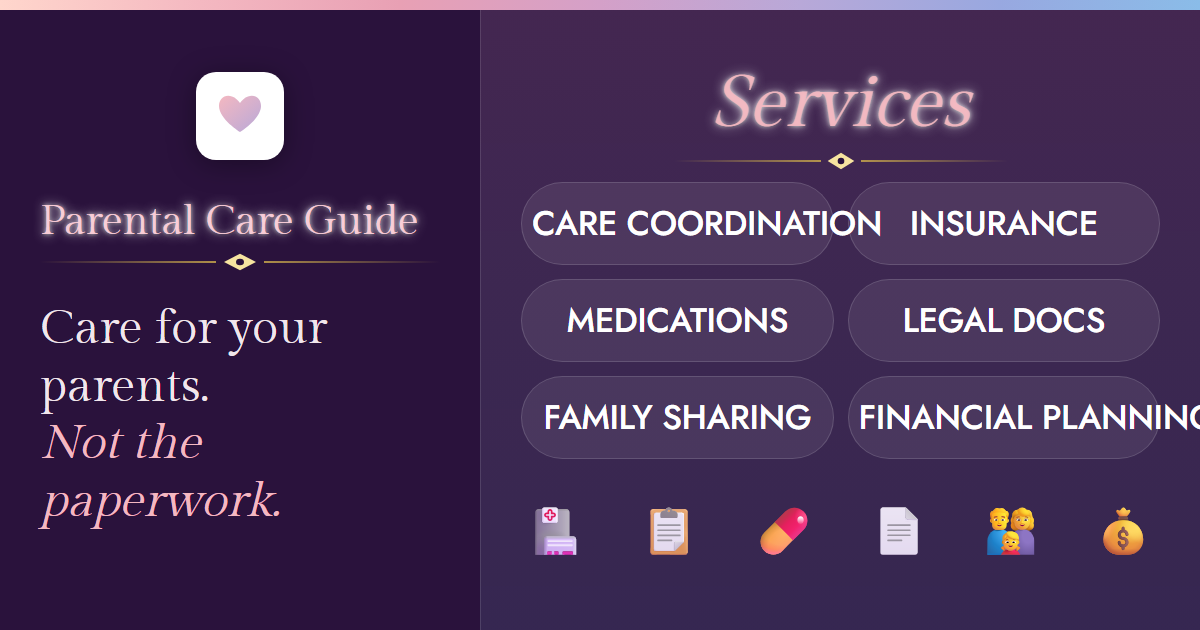
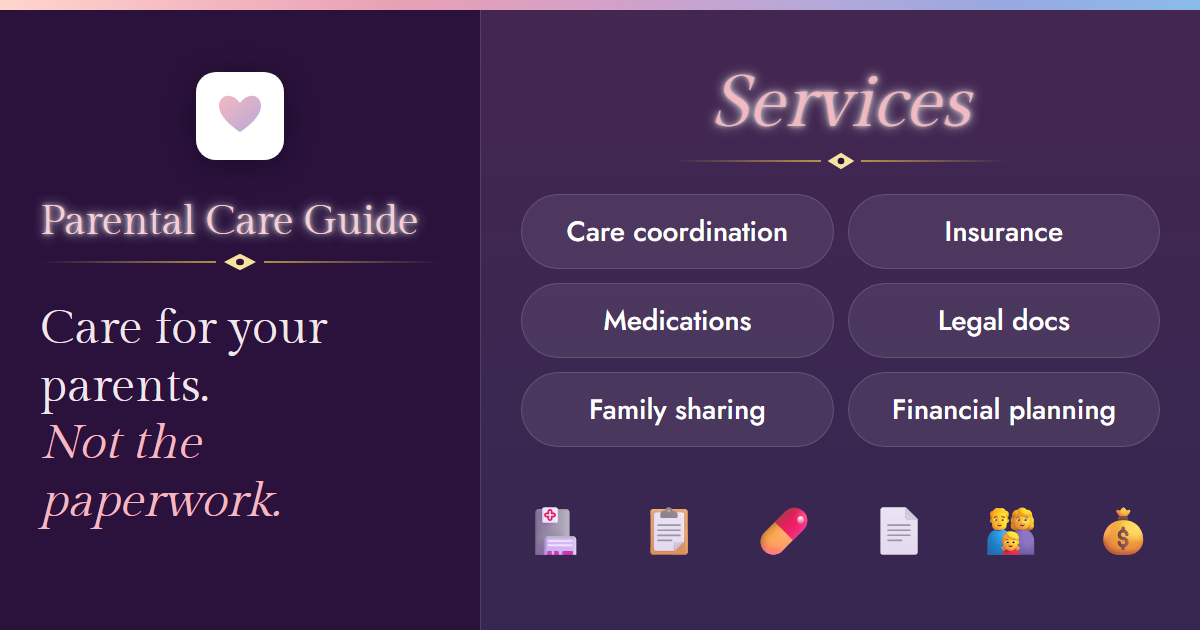
Revert "feat: add og-image.svg; pill text uppercase 20% bigger"
This reverts commit a28c262a2f454d36bbcb25f5600ab798da6840d6.

diff --git a/designs/og-options.html b/designs/og-options.html
@@ -163,8 +163,6 @@
       padding: 32px 20px;
       gap: 14px;
       position: relative;
-      min-width: 0;
-      overflow: hidden;
     }
 
     /* spacer reserves space for PCG in flex flow; PCG is absolutely positioned in body-right */
@@ -234,14 +232,14 @@
 
     .og-7 .body-right .pills {
       display: grid;
-      grid-template-columns: repeat(2, minmax(0, 1fr));
+      grid-template-columns: repeat(2, 1fr);
       gap: 7px;
       width: 100%;
       margin-top: -49px;
     }
 
     .og-7 .body-right .pill {
-      font-size: 17px;
+      font-size: 14px;
       font-weight: 500;
       padding: 8px 5px;
       border-radius: 100px;
@@ -250,8 +248,6 @@
       color: rgba(255, 255, 255, 1);
       white-space: nowrap;
       text-align: center;
-      text-transform: uppercase;
-      letter-spacing: -0.01em;
     }
   </style>
 </head>

diff --git a/og-card.html b/og-card.html
@@ -108,8 +108,6 @@
       padding: 64px 40px;
       gap: 28px;
       position: relative;
-      min-width: 0;
-      overflow: hidden;
     }
 
     .services-header {
@@ -147,14 +145,14 @@
 
     .pills {
       display: grid;
-      grid-template-columns: repeat(2, minmax(0, 1fr));
+      grid-template-columns: repeat(2, 1fr);
       gap: 14px;
       width: 100%;
       margin-top: -98px;
     }
 
     .pill {
-      font-size: 34px;
+      font-size: 28px;
       font-weight: 500;
       padding: 16px 10px;
       border-radius: 100px;
@@ -163,8 +161,6 @@
       color: rgba(255, 255, 255, 1);
       white-space: nowrap;
       text-align: center;
-      text-transform: uppercase;
-      letter-spacing: -0.01em;
     }
 
     .service-icons {